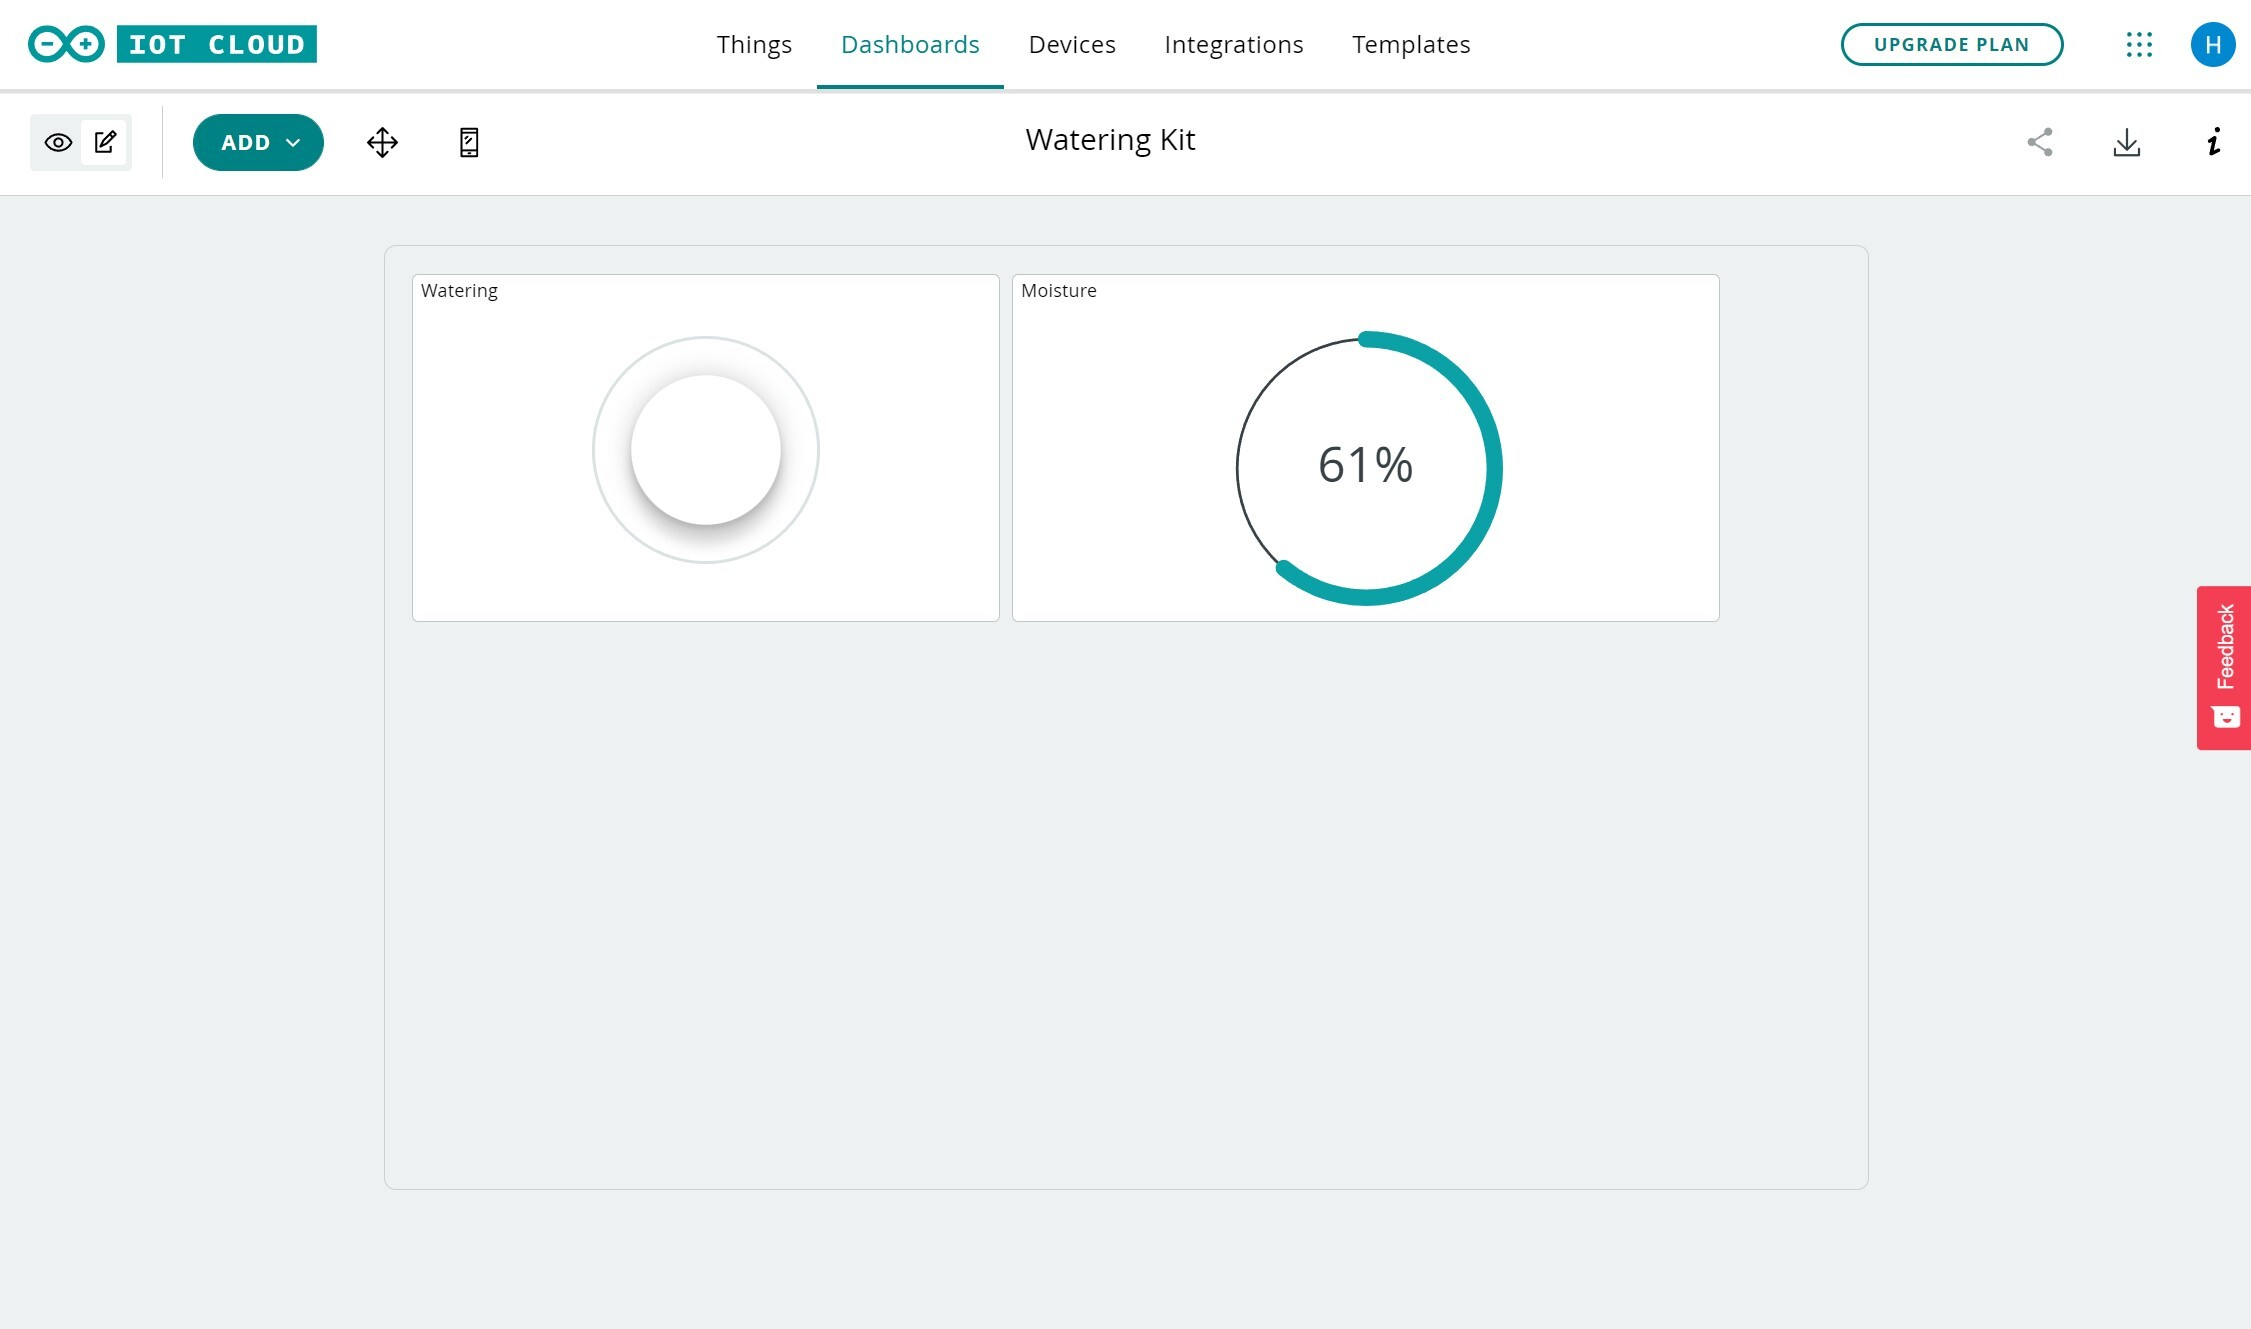
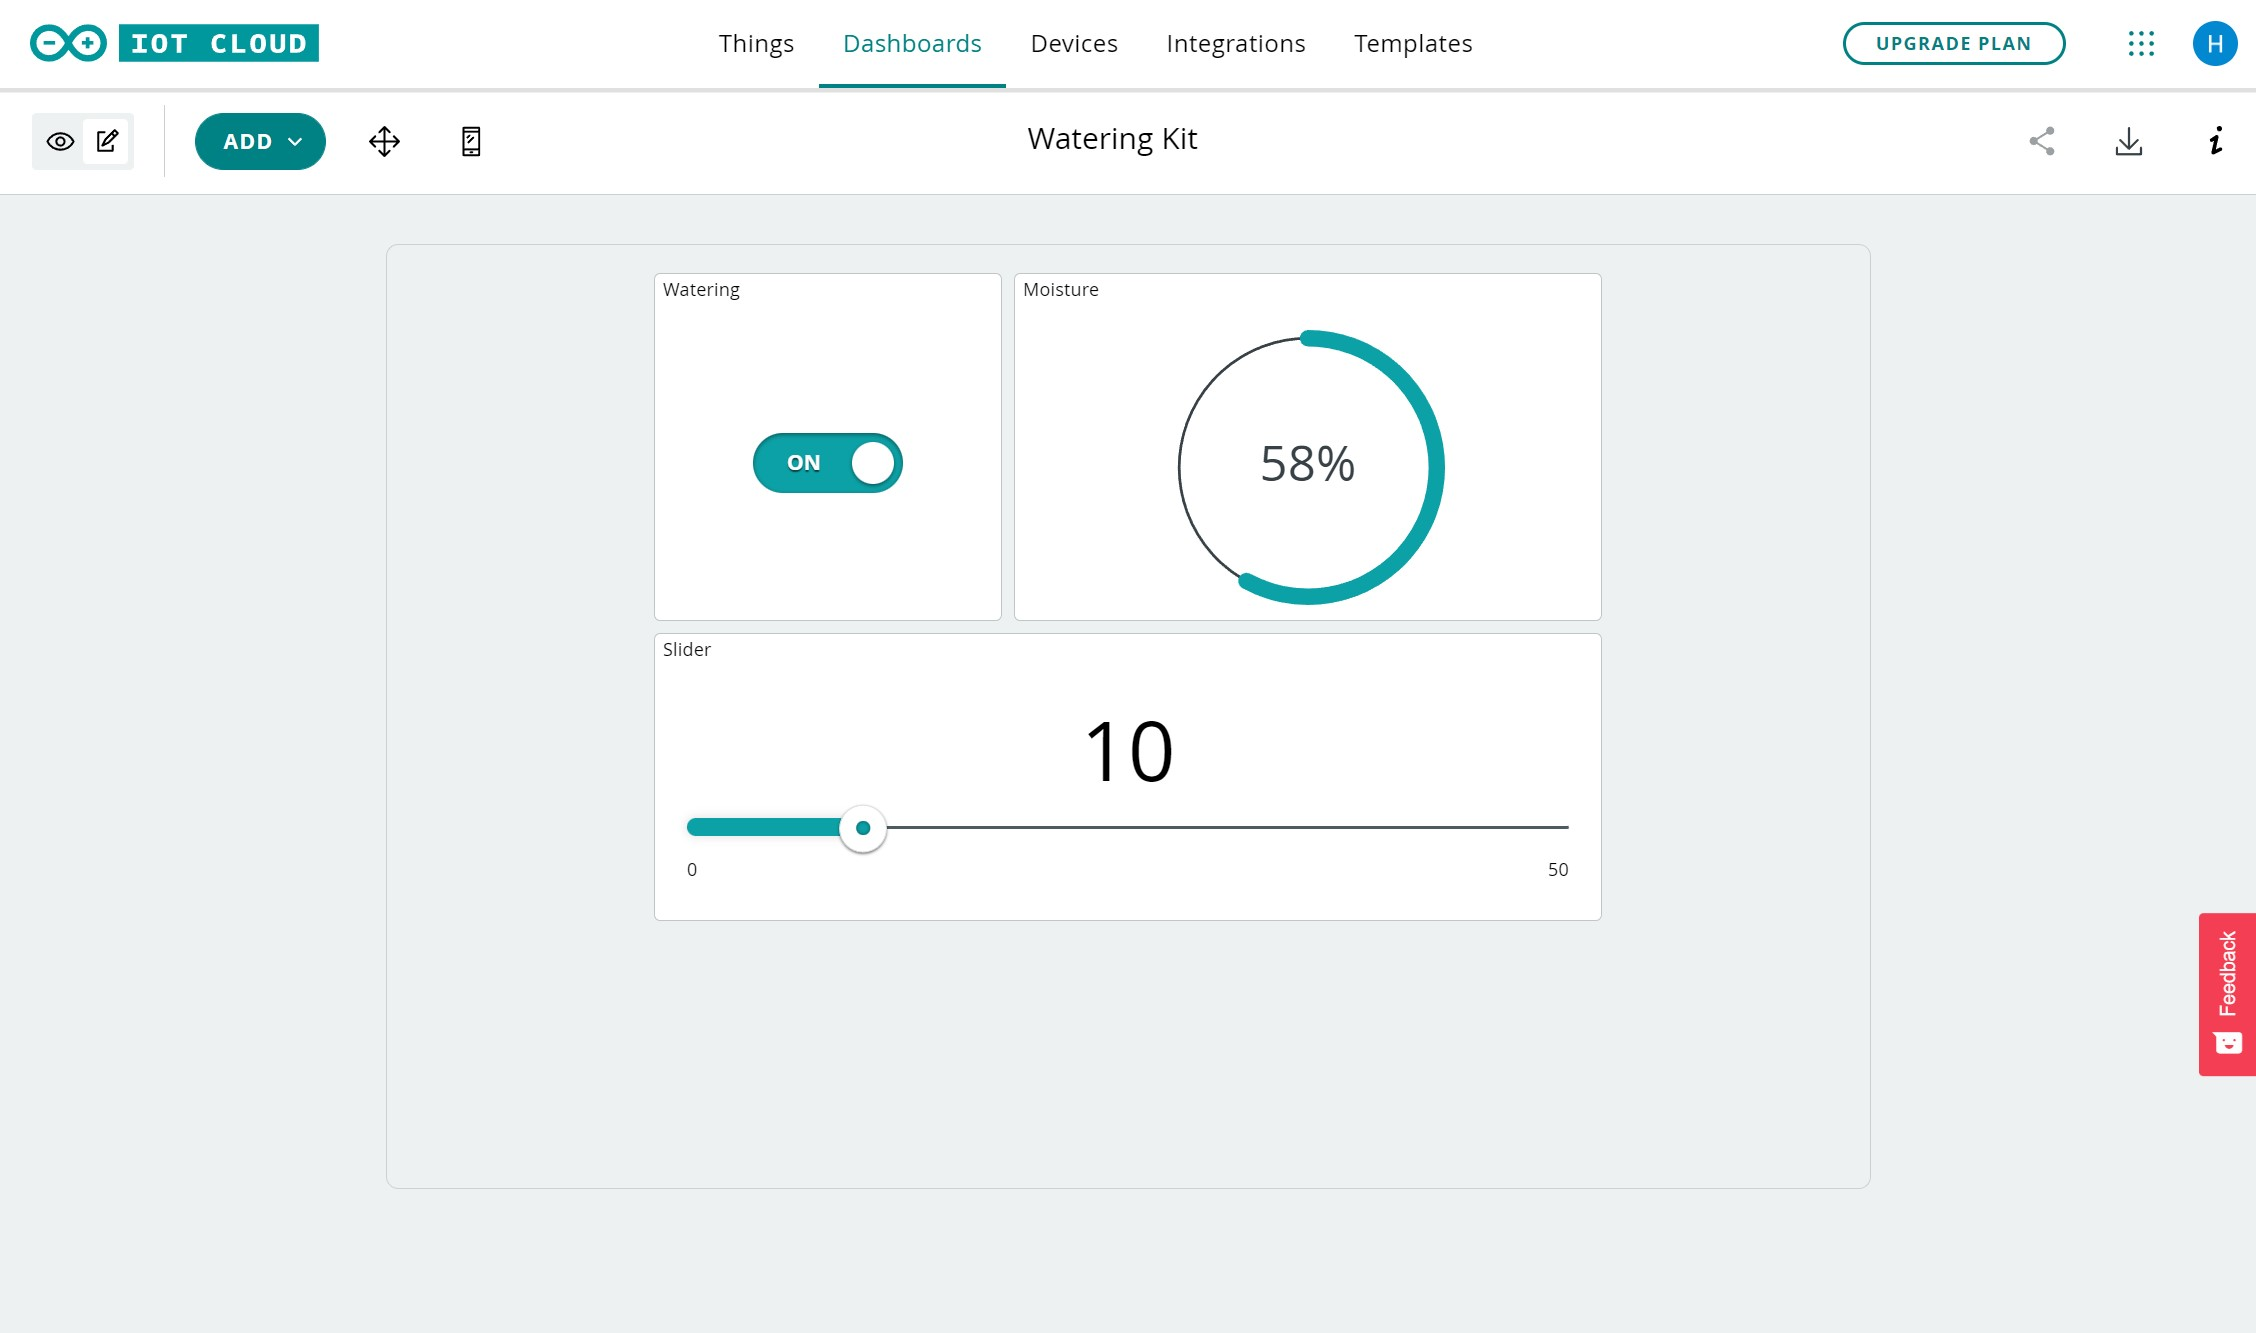
updating assets

diff --git a/content/tutorials/projects/nano-33-iot-iot-plant/nano-33-iot-iot-plant.md b/content/tutorials/projects/nano-33-iot-iot-plant/nano-33-iot-iot-plant.md
@@ -12,7 +12,7 @@ Decorating your home with plants is an easy way to bring some life into your day
 
 ## How It Works
 
-Attaching a an external relay to the Nano 33 IoT screwterminal lets you control circuits that are powered separately. In this tutorial we will be using a relay module attached to the Nano Screw Terminal Shield to control a pump, providing water for one of our plants from the Arduino IoT Cloud thanks to the functionality of the [Arduino Nano 33 IoT](https://store.arduino.cc/products/arduino-nano-33-iot). 
+Attaching an external relay to the Nano 33 IoT screwterminal lets you control circuits that are powered separately. In this tutorial we will be using a relay module attached to the Nano Screw Terminal Shield to control a pump, providing water for one of our plants from the Arduino IoT Cloud thanks to the functionality of the [Arduino Nano 33 IoT](https://store.arduino.cc/products/arduino-nano-33-iot). 
 
 We will also connect a soil moisture sensor creating a sophisticated smart garden setup, capable of:
 
@@ -157,19 +157,15 @@ Begin by navigating to the [Arduino IoT Cloud](https://create.arduino.cc/iot/thi
 */
 
 /* ------------- START CONFIG ------------- */
-constexpr int BUTTON_PIN = 11;
-constexpr int LED_PIN    = 12;
-constexpr int RELAY_PIN  = 13;
+constexpr int BUTTON_PIN = 4;
+constexpr int LED_PIN    = 5;
+constexpr int RELAY_PIN  = 6;
 constexpr int MOIST_PIN  = A0;
-
-const float waterAmount = 0.1;  // liters
-const float waterSpeed  = 0.045; // liters/sec
 
 
 int raw_moisture = 0;
 /* ------------- END CONFIG ------------- */
 
-#include "arduino_secrets.h"
 #include "thingProperties.h"
 #include <Bounce2.h>
 
@@ -201,7 +197,7 @@ void setup() {
     digitalWrite(LED_PIN, LOW);
     delay(200);
   }
-  waterTime = waterAmount / waterSpeed;
+
 }
 
 void loop() {
@@ -210,8 +206,8 @@ void loop() {
   // Read the sensor and convert its value to a percentage 
   // (0% = dry; 100% = wet)
   raw_moisture = analogRead(MOIST_PIN);
-  moisture = map(raw_moisture, 780, 1023, 100, 0);
-  Serial.println(raw_moisture);
+  moisture = map(raw_moisture, 610, 90, 0, 100); 
+  Serial.println(moisture);
 
   // Set the LED behavior according to the moisture percentage or watering status
   if (watering) {
@@ -245,7 +241,7 @@ void loop() {
 
 // This function is triggered whenever the server sends a change event,
 // which means that someone changed a value remotely and we need to do
-// something.
+// something. 
 void onWateringChange() {
   if (watering) {
     startWatering();
@@ -266,7 +262,7 @@ void stopWatering () {
   digitalWrite(RELAY_PIN, LOW);
 }
 
-void onWaterTimeChange() {
+void onWaterTimeChange()  {
   // Add your code here to act upon WaterTime change
 }
 
@@ -295,7 +291,7 @@ We have now assembled the hardware + configured the Arduino IoT Cloud, and we ar
 
 Let's take a look at what our Smart Garden can do. To control it, we can either use the dashboard in the Arduino IoT Cloud, or the Arduino Remote app ([Playstore](https://play.google.com/store/apps/details?id=cc.arduino.cloudiot&hl=en&gl=US) / [Appstore](https://apps.apple.com/us/app/arduino-iot-cloud-remote/id1514358431)).
 
-![Control and monitor your Smart Garden!](assets/Dashboard.gif)
+![Control and monitor your Smart Garden!](assets/dashboard.gif)
 
 ***In this dashboard, we have also added a chart widget to monitor the soil moisture over time.***
 
